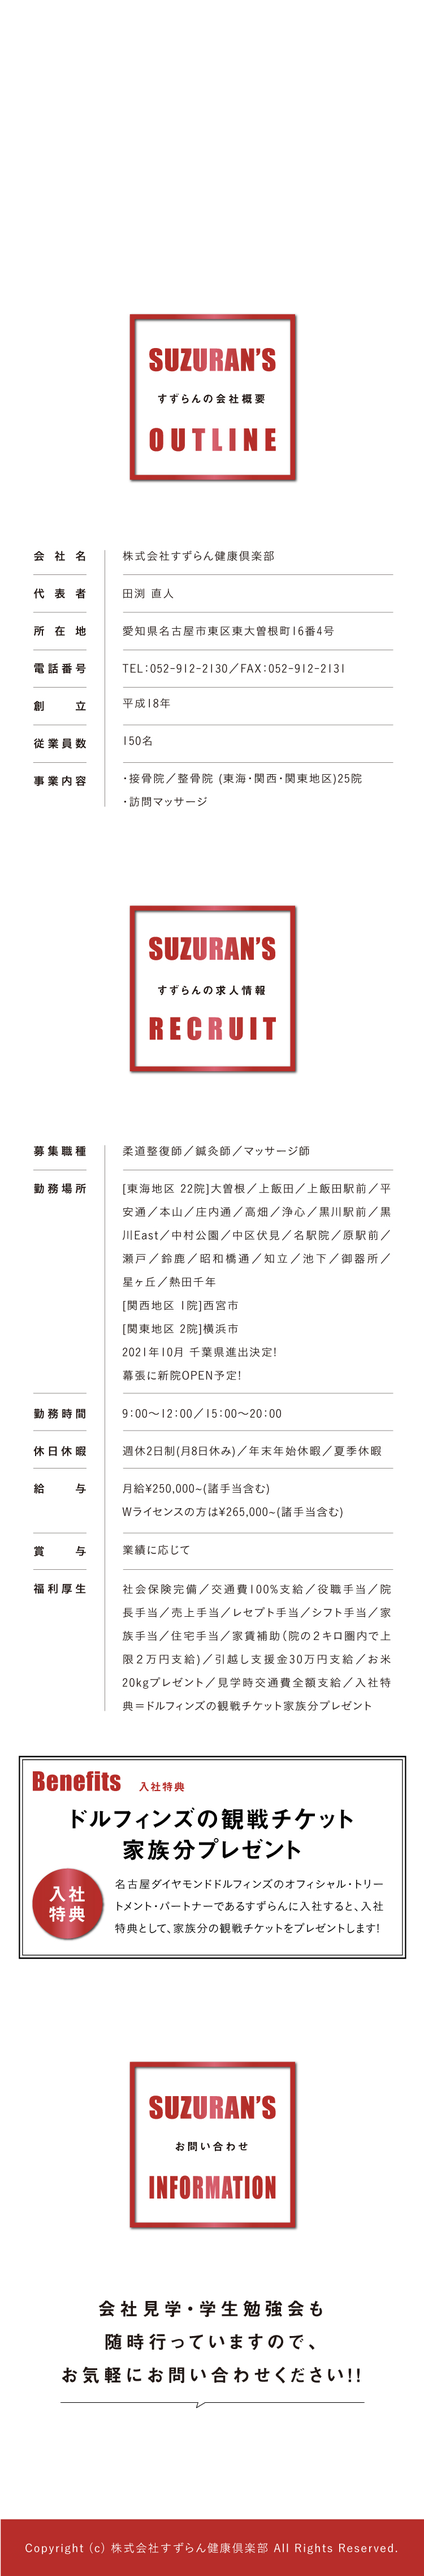
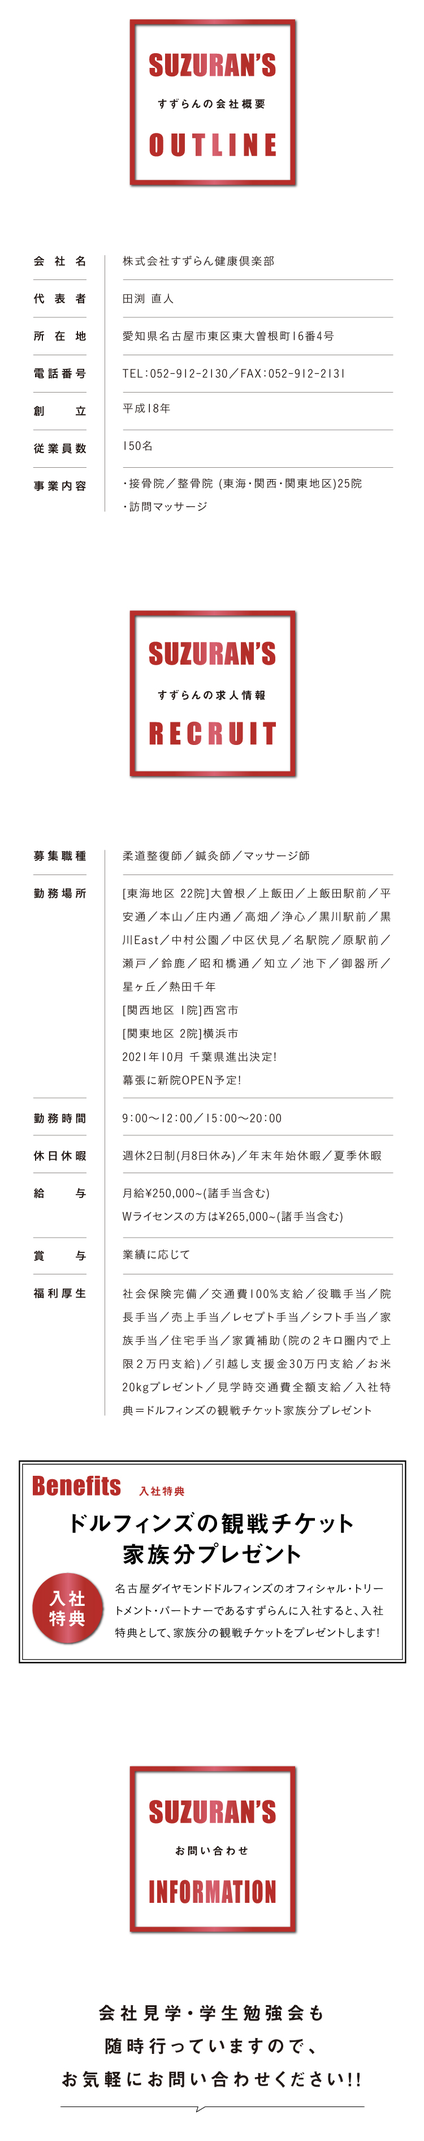
changes images size

diff --git a/css/index.css b/css/index.css
@@ -44,7 +44,7 @@ a {
 /* 
 .btn01{
     width: 49.2%;
-    /* bottom: 20px;  */
+    /* bottom: 20px;  
 }
 
 .btn02{
@@ -57,6 +57,8 @@ a {
 
 .contents01 {
     width: 100%;
+    margin-bottom: 120px;
+
 }
 
 .contents1 {
@@ -73,6 +75,8 @@ a {
 
 .contents03 {
     width: 100%;
+    margin-top: 100px;    
+    margin-bottom: 100px;  
 }
 
 .contents3 {
@@ -89,19 +93,21 @@ a {
 
 .contents05 {
     width: 100%;
+    margin-top: 100px; 
+    margin-bottom: 55px; 
 }
 
 .contents5 {
     width: 100%;
 }
 
-.contents06 {
+/* .contents06 {
     width: 100%;
 }
 
 .contents6 {
     width: 100%;
-}
+} */
 /* 
 .contents04 {
     position: relative;
